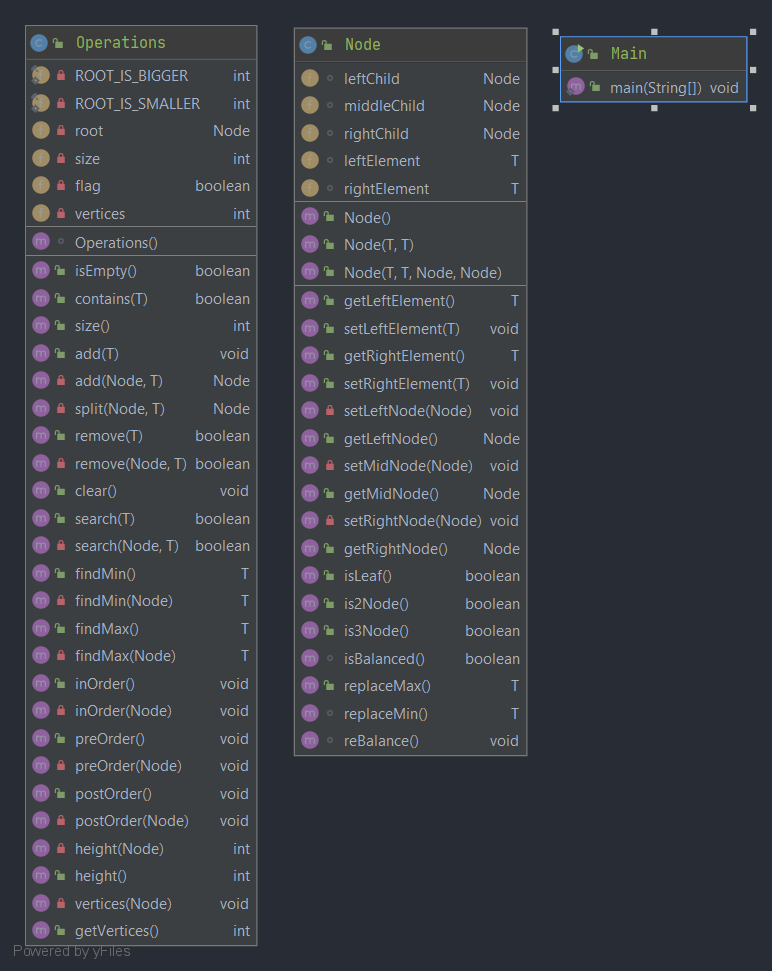
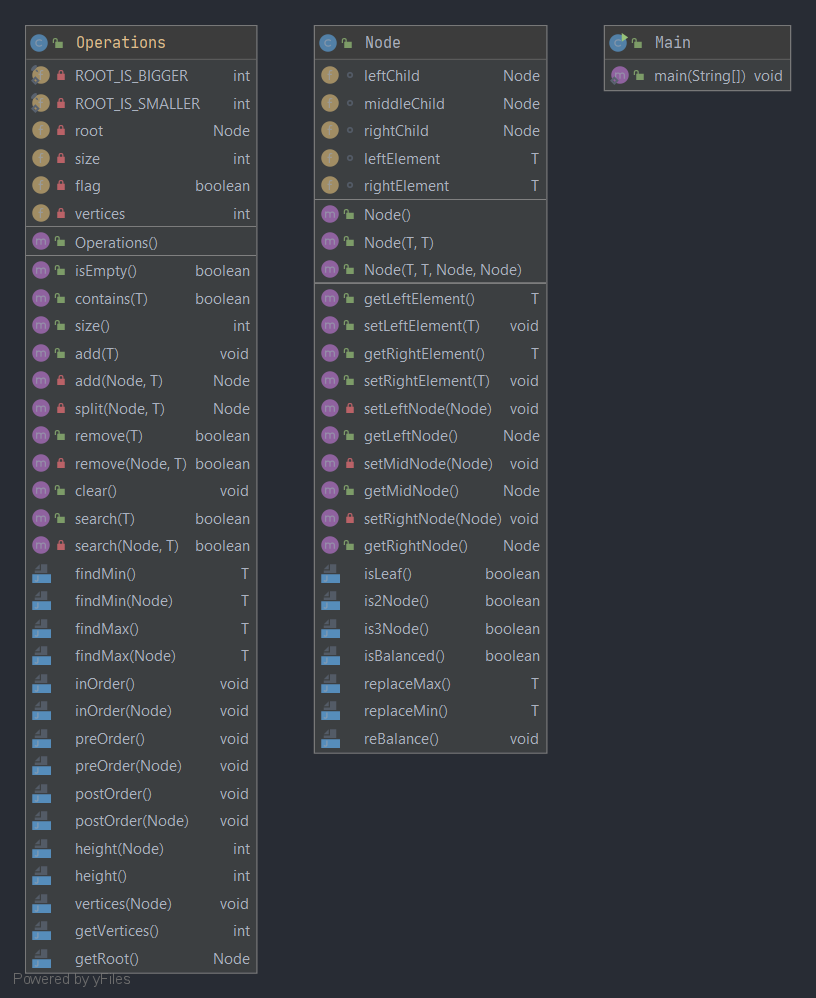
Tried to display some nodes

Changed region(s): [[0.0, 0.0309, 0.342, 0.9887], [0.3731, 0.0, 0.6839, 0.7724], [0.715, 0.0309, 0.9948, 0.1236]]

diff --git a/src/applicationTwoThreeTree/TwoThreeTreeApp.java b/src/applicationTwoThreeTree/TwoThreeTreeApp.java
@@ -9,10 +9,14 @@ import javafx.scene.control.TextField;
 import javafx.scene.layout.BorderPane;
 import javafx.scene.layout.HBox;
 import javafx.scene.layout.Pane;
+import javafx.scene.paint.Color;
+import javafx.scene.shape.Line;
+import javafx.scene.shape.Rectangle;
 import javafx.scene.text.Font;
 import javafx.scene.text.FontWeight;
 import javafx.scene.text.Text;
 import javafx.stage.Stage;
+import twoThreeTreeAlgo.Node;
 import twoThreeTreeAlgo.Operations;
 
 public class TwoThreeTreeApp extends Application{
@@ -27,7 +31,9 @@ public class TwoThreeTreeApp extends Application{
         // create DrawTree object
         DrawTree viewTree = new DrawTree(tree);
         // creating a border pane
-        BorderPane controlsPane = new BorderPane();
+        BorderPane treePane = new BorderPane();
+        // set Tree pane
+        treePane.setCenter(viewTree);
         // Create HBox
         HBox controls = new HBox(10);
         // text field to insert keys
@@ -38,13 +44,26 @@ public class TwoThreeTreeApp extends Application{
         Button insert = new Button("Insert");
         insert.setStyle("-fx-background-color: #69e597");
         insert.setFont(Font.font(Font.getDefault().toString(), FontWeight.BOLD,10));
+
         Button delete = new Button("Delete");
         delete.setStyle("-fx-background-color: #ee8084;");
         delete.setFont(Font.font(Font.getDefault().toString(), FontWeight.BOLD,10));
+
         Button find = new Button("Search");
         find.setStyle("-fx-background-color: #7982e3");
         find.setFont(Font.font(Font.getDefault().toString(), FontWeight.BOLD,10));
 
+        insert.setOnMouseClicked(e->{
+            try{
+                int key =Integer.parseInt(keyText.getText());
+                keyText.setText("");
+                tree.add(key);
+                viewTree.displayTree();
+            }
+            catch (NumberFormatException ex){
+                System.out.println("Wrong format provided");
+            }
+        });
 
         // position controls
         BorderPane.setMargin(controls,new Insets(15,15,15,15));
@@ -54,8 +73,8 @@ public class TwoThreeTreeApp extends Application{
         enterKey.setFont(Font.font(Font.getDefault().toString(), FontWeight.BOLD,20));
         controls.getChildren().addAll(enterKey,keyText,insert,delete,find);
         // set HBox to the top
-        controlsPane.setTop(controls);
-        Scene scene = new Scene(controlsPane);
+        treePane.setTop(controls);
+        Scene scene = new Scene(treePane);
         primaryStage.setScene(scene);
         // Show Stage
         primaryStage.show();
@@ -67,6 +86,97 @@ public class TwoThreeTreeApp extends Application{
         // constructor
         DrawTree(Operations<Integer> tree){
             this.tree = tree;
+        }
+
+        private void draw2Node(String key, double xCord, double yCord, boolean isLeaf){
+            Rectangle box = new Rectangle(xCord,yCord,30,30);
+            box.setFill(Color.LIGHTGREEN);
+            box.setArcHeight(5);
+            box.setArcWidth(5);
+            Text keyText = new Text(xCord + 10,yCord + 15, key);
+            keyText.setFill(Color.BLACK);
+            keyText.setFont(Font.font(Font.getDefault().toString(), FontWeight.EXTRA_BOLD,15));
+            if (isLeaf)
+            {
+                // if leaf node then draw node only
+                getChildren().addAll(box,keyText);
+            }
+            else{
+                // if not leaf node then draw node and lines
+                Line leftLine = new Line(xCord,yCord+30,xCord/2,yCord+60);
+                Line rightLine = new Line(xCord+30,yCord+30,1.5*xCord,yCord+60);
+                getChildren().addAll(box,keyText,leftLine,rightLine);
+            }
+        }
+        private void draw3Node(String key1, String key2, double xCord, double yCord, boolean isLeaf){
+            Rectangle box1 = new Rectangle(xCord,yCord,30,30);
+            Rectangle box2 = new Rectangle(xCord+30,yCord,30,30);
+            box1.setFill(Color.LIGHTGREEN);
+            box2.setFill(Color.LIGHTGREEN);
+            box1.setArcHeight(5);
+            box1.setArcWidth(5);
+            box2.setArcHeight(5);
+            box2.setArcWidth(5);
+
+            Text keyText1 = new Text(xCord + 10,yCord + 15, key1);
+            keyText1.setFill(Color.BLACK);
+            keyText1.setFont(Font.font(Font.getDefault().toString(), FontWeight.EXTRA_BOLD,15));
+            Text keyText2 = new Text(xCord + 40,yCord + 15, key2);
+            keyText2.setFill(Color.BLACK);
+            keyText2.setFont(Font.font(Font.getDefault().toString(), FontWeight.EXTRA_BOLD,15));
+
+            if (isLeaf)
+            {
+                // if leaf node then draw node only
+                this.getChildren().addAll(box1,box2,keyText1,keyText2);
+            }
+            else{
+                // if not leaf node then draw node and lines
+                Line leftLine = new Line(xCord+30,yCord,xCord/2,yCord+60);
+                Line rightLine = new Line(xCord+30,yCord+30,1.5*xCord,yCord+60);
+                Line middleLine = new Line(xCord+30,yCord+30,xCord,yCord+60);
+                this.getChildren().addAll(box1,box2,keyText1,keyText2,leftLine,middleLine,rightLine);
+            }
+        }
+        public void displayTree(){
+            // first clear the screen
+            this.getChildren().clear();
+            // display tree is root is not null
+            if (tree.getRoot() != null){
+                displayTree(tree.getRoot(),getWidth()/2,70);
+            }
+        }
+        private void displayTree(Node<Integer> root, double w, double h){
+            System.out.println(root.getLeftNode());
+            System.out.println(root.getMidNode());
+            System.out.println(root.getRightElement());
+            if( root.getLeftNode() != null){
+                if(root.is2Node()){
+                    draw2Node(root.getLeftElement().toString(),w,h,root.isLeaf());
+                }
+                else{
+                    draw3Node(root.getLeftElement().toString(),root.getRightElement().toString(),w,h,root.isLeaf());
+                }
+                displayTree(root.getLeftNode(),w/2,h+30);
+            }
+//            if( root.getMidNode() != null){
+//                if(root.is2Node()){
+//                    draw2Node(root.get().toString(),w,h,root.isLeaf());
+//                }
+//                else{
+//                    draw3Node(root.getMidNode().toString(),root.getRightElement().toString(),w,h,root.isLeaf());
+//                }
+//                displayTree(root.getMidNode(),w/2,h+30);
+//            }
+            if( root.getRightNode() != null){
+                if(root.is2Node()){
+                    draw2Node(root.getRightElement().toString(),w,h,root.isLeaf());
+                }
+                else{
+                    draw3Node(root.getRightElement().toString(),root.getRightElement().toString(),w,h,root.isLeaf());
+                }
+                displayTree(root.getRightNode(),w/2,h+30);
+            }
         }
     }
 }

diff --git a/src/twoThreeTreeAlgo/Operations.java b/src/twoThreeTreeAlgo/Operations.java
@@ -628,4 +628,8 @@ public class Operations<T extends Comparable<T>> {
         vertices(root);
         return vertices;
     }
+
+    public Node getRoot() {
+        return root;
+    }
 }
